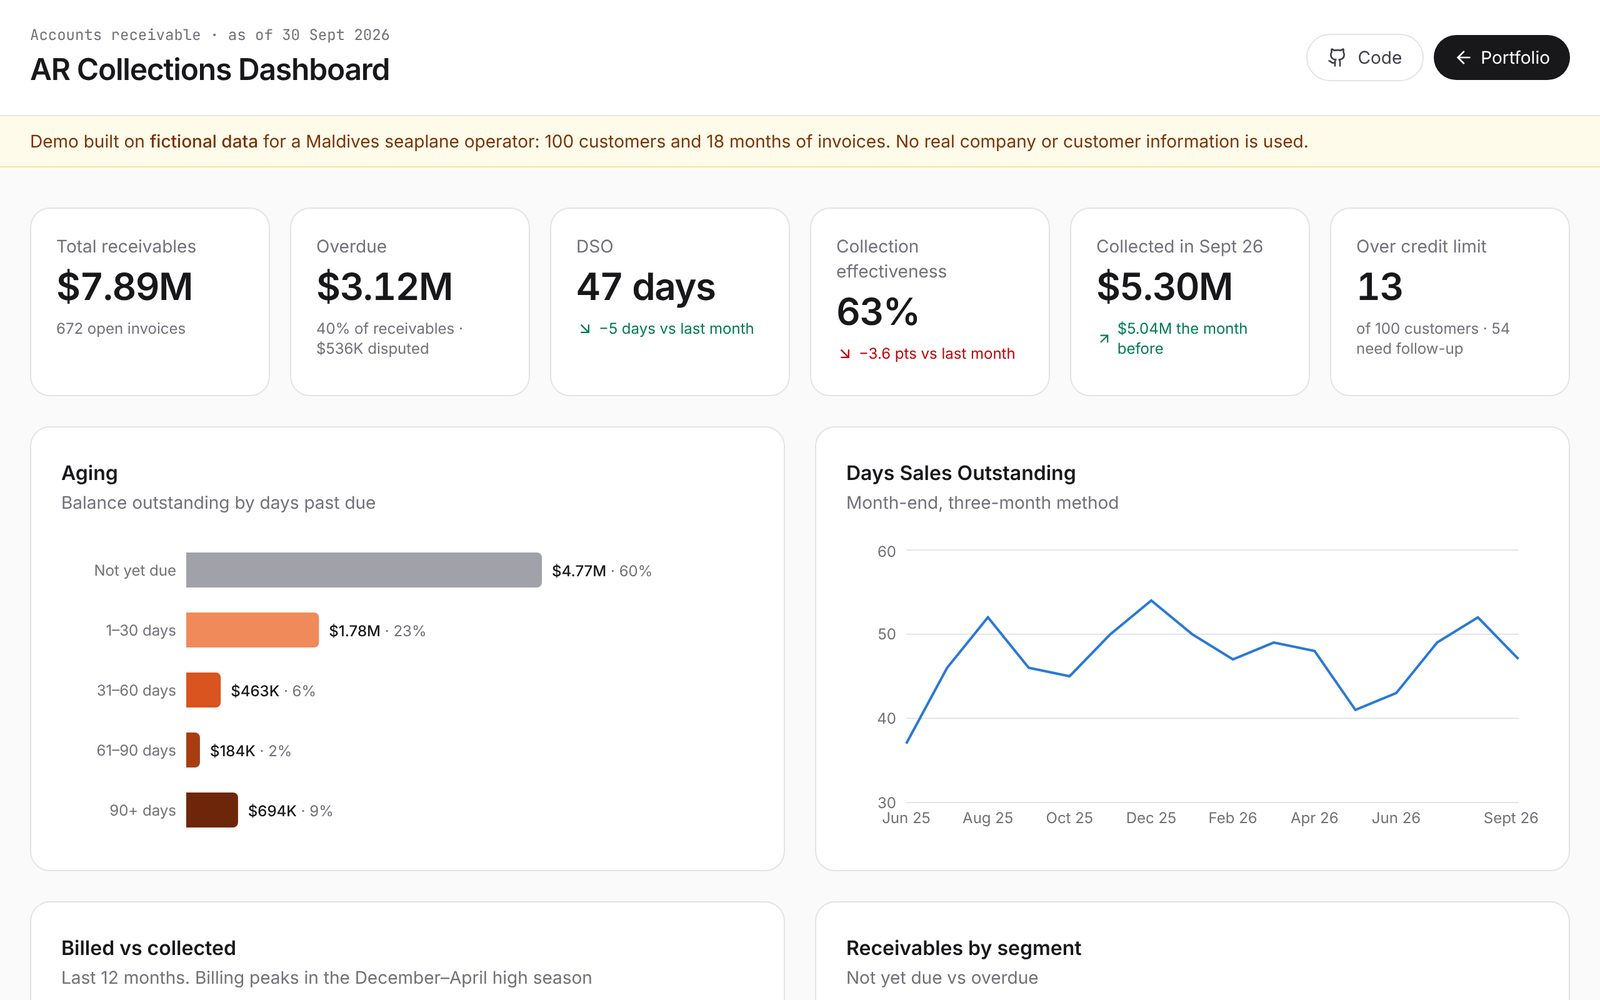
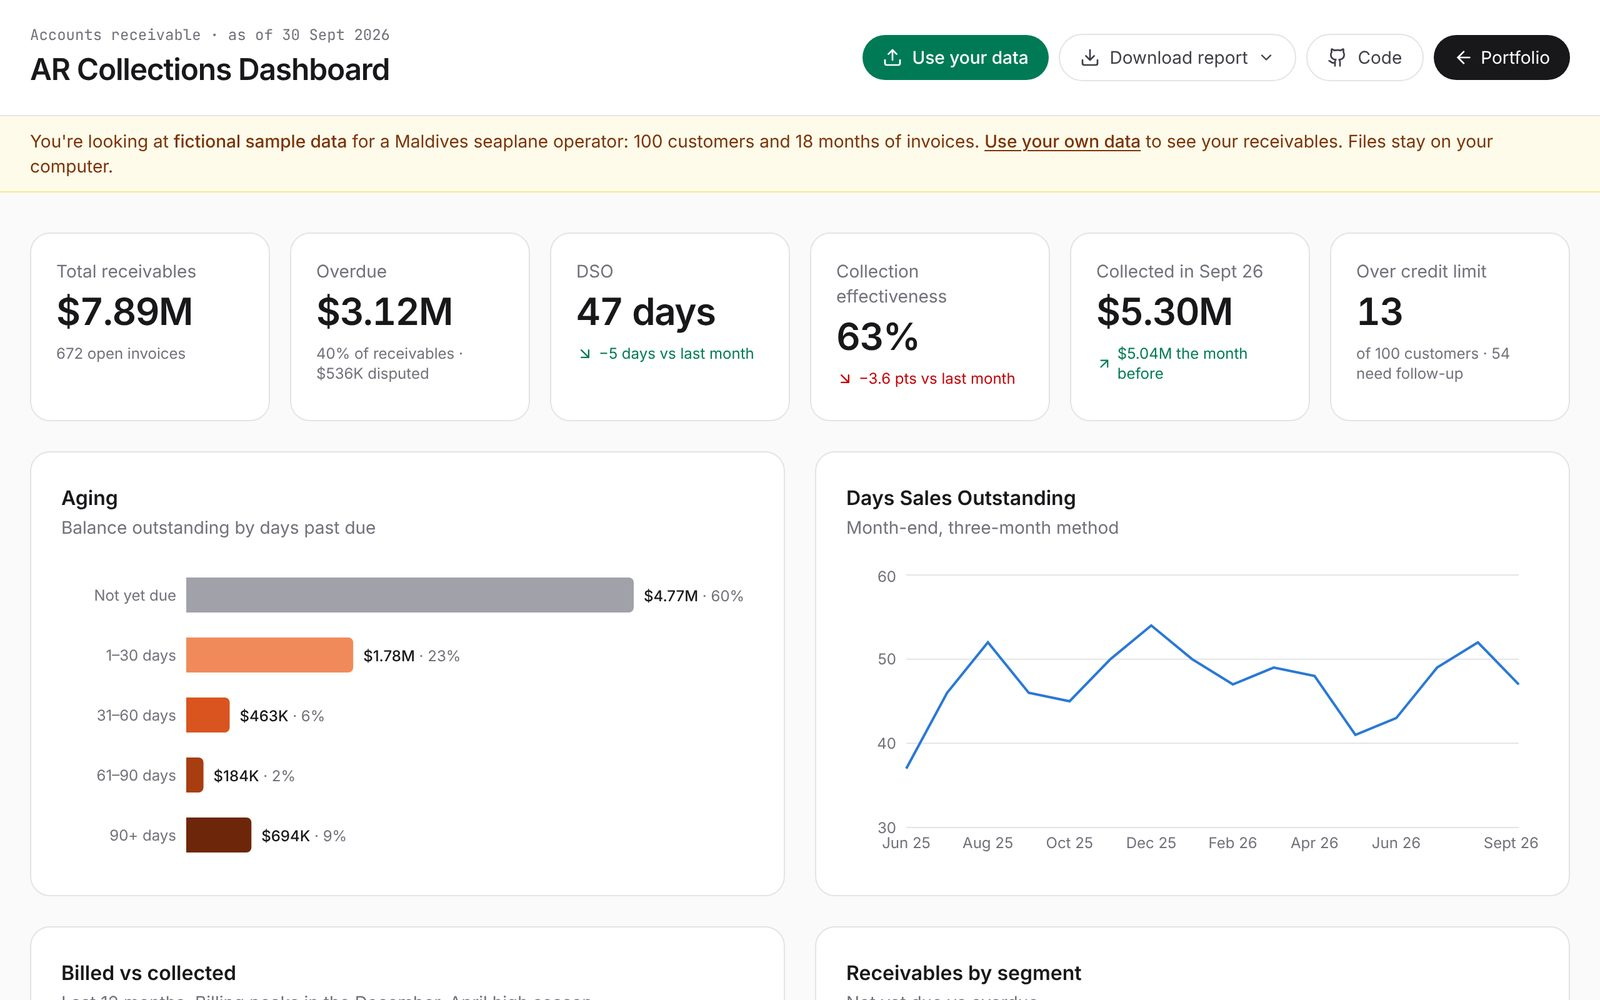
AR dashboard card: mention own-data upload and reports, add offline download
Claude-Session: https://claude.ai/code/session_016HhAbNTrkvNXnYcZAk8gpZ

diff --git a/src/App.tsx b/src/App.tsx
@@ -241,15 +241,17 @@ const Projects = () => {
     {
       title: "AR Collections Dashboard",
       tag: "Finance × Data",
-      desc: "An accounts-receivable dashboard for a Maldives seaplane operator: aging, DSO and collection effectiveness, plus a worklist that ranks 100 customers by who to call first.",
+      desc: "An accounts-receivable dashboard showing aging, DSO and collection effectiveness, plus a worklist that ranks customers by who to call first. Try it on sample data for a Maldives seaplane operator, or load your own.",
       points: [
-        "Month-end DSO and CEI rebuilt from 18 months of invoice and payment history",
-        "Priority score weighting overdue balances by age, risk rating and credit-limit breaches",
-        "Drill-down from customer to individual open invoices"
+        "Upload your own Excel or CSV exports. Files are processed in your browser and never uploaded",
+        "Download an Excel or PDF report: summary, aged debtors and open invoices",
+        "Month-end DSO and CEI rebuilt from invoice and payment history",
+        "Works offline as a single HTML file"
       ],
-      stack: ["React", "TypeScript", "Recharts", "Python"],
+      stack: ["React", "TypeScript", "Recharts", "Excel", "Python"],
       image: "projects/ar-collections.jpg",
       demo: "projects/ar-collections/",
+      download: "projects/ar-collections/ar-collections-dashboard.html",
       code: "https://github.com/amila-nandasiri/ar-collections-dashboard"
     }
   ];
@@ -289,6 +291,9 @@ const Projects = () => {
                   <div className="flex flex-wrap gap-3 mt-auto">
                     <a href={p.demo} className="inline-flex items-center gap-2 bg-zinc-900 text-white px-5 py-2.5 rounded-full text-sm font-medium hover:bg-zinc-700 transition-colors">
                       Open live demo <ArrowUpRight className="w-4 h-4" />
+                    </a>
+                    <a href={p.download} download className="inline-flex items-center gap-2 border border-zinc-200 text-zinc-900 px-5 py-2.5 rounded-full text-sm font-medium hover:border-zinc-400 transition-colors">
+                      <Download className="w-4 h-4" /> Download (HTML)
                     </a>
                     <a href={p.code} target="_blank" rel="noopener noreferrer" className="inline-flex items-center gap-2 border border-zinc-200 text-zinc-900 px-5 py-2.5 rounded-full text-sm font-medium hover:border-zinc-400 transition-colors">
                       <Github className="w-4 h-4" /> View code
